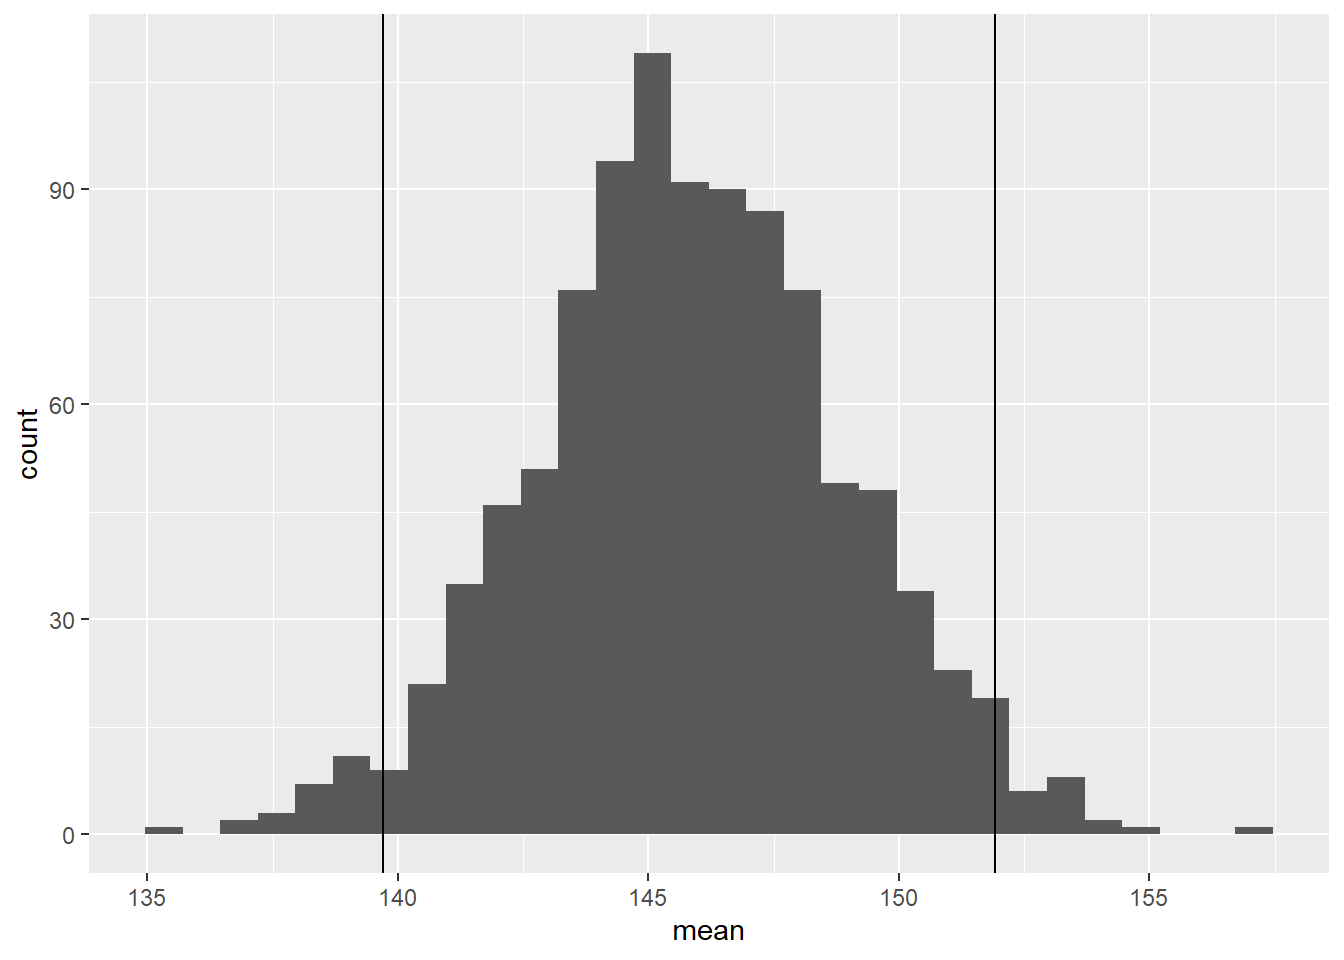
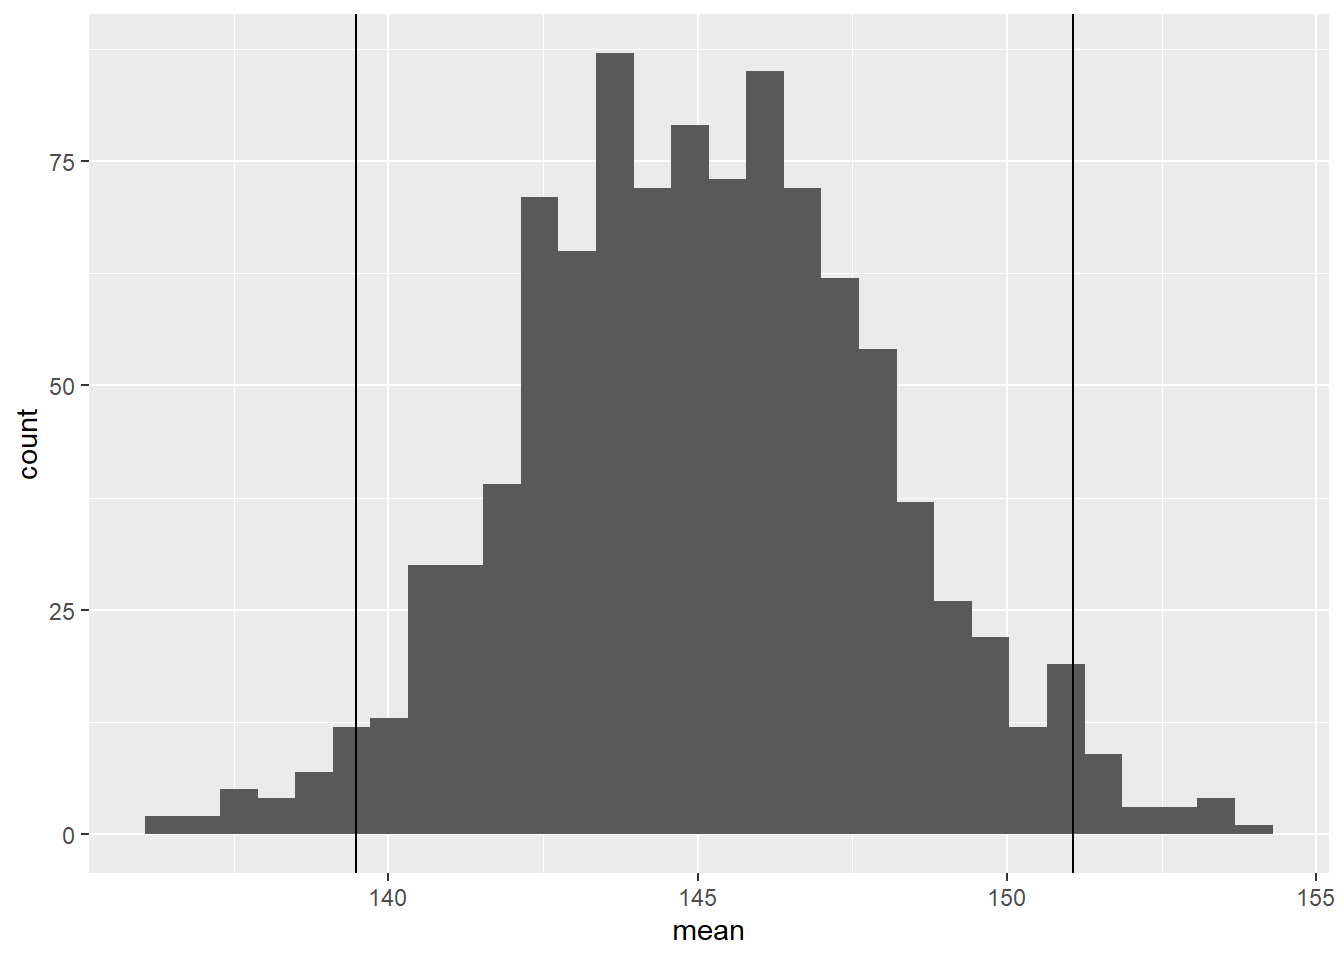
Last-minute touches

diff --git a/exercise-05.html b/exercise-05.html
@@ -107,10 +107,10 @@ pre > code.sourceCode > span > a:first-child::before { text-decoration: underlin
 <div class="code-copy-outer-scaffold"><div class="sourceCode cell-code" id="cb1"><pre class="sourceCode r code-with-copy"><code class="sourceCode r"><span id="cb1-1"><a href="#cb1-1" aria-hidden="true" tabindex="-1"></a><span class="fu">library</span>(tidyverse)</span></code></pre></div><button title="Copy to Clipboard" class="code-copy-button"><i class="bi"></i></button></div>
 <div class="cell-output cell-output-stderr">
 <pre><code>── Attaching core tidyverse packages ──────────────────────── tidyverse 2.0.0 ──
-✔ dplyr     1.2.0     ✔ readr     2.2.0
+✔ dplyr     1.1.4     ✔ readr     2.1.6
 ✔ forcats   1.0.1     ✔ stringr   1.6.0
-✔ ggplot2   4.0.2     ✔ tibble    3.3.1
-✔ lubridate 1.9.5     ✔ tidyr     1.3.2
+✔ ggplot2   4.0.1     ✔ tibble    3.3.1
+✔ lubridate 1.9.4     ✔ tidyr     1.3.2
 ✔ purrr     1.2.1     
 ── Conflicts ────────────────────────────────────────── tidyverse_conflicts() ──
 ✖ dplyr::filter() masks stats::filter()
@@ -226,12 +226,12 @@ dbl (4): startYear, runtimeMinutes, averageRating, numVotes
 <pre><code># A tibble: 6 × 3
   decade  mean standardDeviation
   &lt;chr&gt;  &lt;dbl&gt;             &lt;dbl&gt;
-1 20s     96.5              26.6
-2 30s     91.3              18.6
-3 40s     96.4              18.9
-4 50s    101.               18.4
-5 60s    102.               20.7
-6 70s    102.               19.1</code></pre>
+1 20s     97.9              26.2
+2 30s     88.6              16.2
+3 40s     98.0              18.8
+4 50s     99.0              18.1
+5 60s    108.               23.0
+6 70s    101.               14.7</code></pre>
 </div>
 </div>
 </section>
@@ -245,12 +245,12 @@ dbl (4): startYear, runtimeMinutes, averageRating, numVotes
 <pre><code># A tibble: 6 × 4
   decade  mean standardDeviation standardError
   &lt;chr&gt;  &lt;dbl&gt;             &lt;dbl&gt;         &lt;dbl&gt;
-1 20s     96.5              26.6          2.66
-2 30s     91.3              18.6          1.86
-3 40s     96.4              18.9          1.89
-4 50s    101.               18.4          1.84
-5 60s    102.               20.7          2.07
-6 70s    102.               19.1          1.91</code></pre>
+1 20s     97.9              26.2          2.62
+2 30s     88.6              16.2          1.62
+3 40s     98.0              18.8          1.88
+4 50s     99.0              18.1          1.81
+5 60s    108.               23.0          2.30
+6 70s    101.               14.7          1.47</code></pre>
 </div>
 </div>
 </section>
@@ -293,6 +293,10 @@ dbl (4): startYear, runtimeMinutes, averageRating, numVotes
 </div>
 </div>
 </div>
+</section>
+<section id="step-10" class="level2">
+<h2 class="anchored" data-anchor-id="step-10">Step 10</h2>
+<p>The standard error for runtime seems pretty similar compared to the standard error for the first sample for the distribution, the population standard deviation, and the standard deviation for the entire sampling distribution.</p>
 </section>
 </section>
 <section id="challenge-2" class="level1">
@@ -572,11 +576,11 @@ dbl (6): id, height, weight, zombies_killed, years_of_education, age
 <pre><code># A tibble: 5 × 6
   variable             mean standardDeviation standardError CI95Lower CI95Upper
   &lt;chr&gt;               &lt;dbl&gt;             &lt;dbl&gt;         &lt;dbl&gt;     &lt;dbl&gt;     &lt;dbl&gt;
-1 age                 20.0               2.69         0.380     19.3      20.8 
-2 height              68.1               4.94         0.699     66.7      69.5 
-3 weight             146.               21.7          3.06     140.      152.  
-4 years_of_education   2.78              1.59         0.225      2.34      3.22
-5 zombies_killed       3.04              1.83         0.259      2.53      3.55</code></pre>
+1 age                 20.4               2.98         0.421     19.6      21.2 
+2 height              67.9               5.48         0.775     66.3      69.4 
+3 weight             145.               20.3          2.88     140.      151.  
+4 years_of_education   3.1               1.73         0.245      2.62      3.58
+5 zombies_killed       2.86              1.75         0.247      2.38      3.34</code></pre>
 </div>
 </div>
 </section>
@@ -711,17 +715,17 @@ dbl (6): id, height, weight, zombies_killed, years_of_education, age
 <pre><code># A tibble: 5 × 5
   variable             Mean standardDeviation realCI95Lower realCI95Upper
   &lt;chr&gt;               &lt;dbl&gt;             &lt;dbl&gt;         &lt;dbl&gt;         &lt;dbl&gt;
-1 age                 20.0              0.433         19.0          20.8 
-2 height              67.7              0.645         66.4          69.0 
-3 weight             144.               2.71         139.          151.  
-4 years_of_education   2.98             0.225          2.52          3.40
-5 zombies_killed       3.00             0.204          2.62          3.36</code></pre>
+1 age                 20.1              0.413         19.2          20.8 
+2 height              67.7              0.601         66.6          68.9 
+3 weight             144.               2.59         139.          149.  
+4 years_of_education   3.00             0.235          2.58          3.48
+5 zombies_killed       2.99             0.237          2.56          3.46</code></pre>
 </div>
 </div>
 <p>The 95% confidence intervals seem pretty similar between the sampling distribution and the individual samples.</p>
 </section>
-<section id="step-10" class="level2">
-<h2 class="anchored" data-anchor-id="step-10">Step 10</h2>
+<section id="step-10-1" class="level2">
+<h2 class="anchored" data-anchor-id="step-10-1">Step 10</h2>
 <div class="cell">
 <div class="code-copy-outer-scaffold"><div class="sourceCode cell-code" id="cb57"><pre class="sourceCode r code-with-copy"><code class="sourceCode r"><span id="cb57-1"><a href="#cb57-1" aria-hidden="true" tabindex="-1"></a>n_boot <span class="ot">&lt;-</span> <span class="dv">1000</span></span>
 <span id="cb57-2"><a href="#cb57-2" aria-hidden="true" tabindex="-1"></a>boot_height <span class="ot">&lt;-</span> <span class="fu">do</span>(n_boot) <span class="sc">*</span> <span class="fu">mean</span>(<span class="sc">~</span><span class="fu">sample</span>(z_sample<span class="sc">$</span>height, <span class="at">size =</span> <span class="fu">length</span>(z_sample<span class="sc">$</span>height), <span class="at">replace =</span> <span class="cn">TRUE</span>)) <span class="co"># bootstraps 1000 samples of height taken from our first sample</span></span>
@@ -836,11 +840,11 @@ dbl (6): id, height, weight, zombies_killed, years_of_education, age
 <pre><code># A tibble: 5 × 5
   variable             Mean standardDeviation CI95Lower CI95Upper
   &lt;chr&gt;               &lt;dbl&gt;             &lt;dbl&gt;     &lt;dbl&gt;     &lt;dbl&gt;
-1 height              68.1              0.722     66.7      69.6 
-2 weight             146.               3.08     140.      152.  
-3 age                 20.0              0.385     19.2      20.8 
-4 zombies_killed       3.04             0.254      2.56      3.54
-5 years_of_education   2.77             0.229      2.36      3.24</code></pre>
+1 height              67.8              0.776     66.4      69.5 
+2 weight             145.               2.93     139.      151.  
+3 age                 20.4              0.413     19.6      21.2 
+4 zombies_killed       2.86             0.249      2.36      3.34
+5 years_of_education   3.09             0.244      2.62      3.56</code></pre>
 </div>
 </div>
 <p>The confidence intervals generated via bootstrapping are very similar to the CIs generated by sampling distribution in Step 9.</p>
